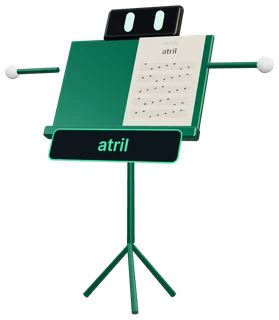
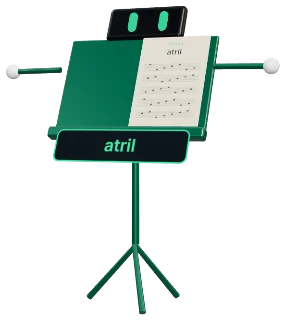
feat(landing): add a portrait bench that renders the family's characters (KJL-TSK-0154)
The family page's portraits come from the film's own three.js modules, so
they must be reproducible. apps/landing/portraits/ is a bench page (not
deployed) that renders each character with a transparent background, trims
it and offers it as <name>-320.webp. Without the film's bloom a glow reads as
white, so the bench paints glowing parts in their flat colour: atril's
portrait is regenerated with it and now shows green eyes.

Refs: KJL-TSK-0154

diff --git a/apps/landing/portraits/index.html b/apps/landing/portraits/index.html
@@ -1,0 +1,107 @@
+<!DOCTYPE html>
+<!--
+  Portrait bench (KJL-TSK-0154): renders the family's characters from the same
+  three.js modules as the film, with a transparent background, as the
+  <name>-320.webp portraits of the family page. Not deployed.
+  Run: python3 -m http.server -d apps/landing 8000, open /portraits/, save each
+  image into public/img/. window.portraits holds them as data URLs too.
+-->
+<html lang="en">
+<head>
+<meta charset="utf-8">
+<title>Karajan family portrait bench</title>
+<link rel="stylesheet" href="https://fonts.googleapis.com/css2?family=Inter:wght@500;600&family=JetBrains+Mono:wght@500&display=swap">
+<style>
+  body { font: 15px Inter, sans-serif; background: #0f1520; color: #e2e8f0; margin: 2rem; }
+  figure { display: inline-block; margin: 0 1.5rem 1.5rem 0; text-align: center; }
+  img { display: block; height: 320px; background: repeating-conic-gradient(#1a2332 0 25%, #151d2a 0 50%) 0 0 / 20px 20px; }
+  a { color: #e8b04b; }
+</style>
+<script type="importmap">{ "imports": { "three": "../public/lib/three.min.js" } }</script>
+</head>
+<body>
+<h1>Family portraits</h1>
+<main id="out"></main>
+<script type="module">
+import * as THREE from 'three';
+import { createStand } from '../public/film/stand.js';
+
+// One entry per portrait: builds the character in its portrait pose.
+const CAST = {
+  atril: () => {
+    const stand = createStand('atril', [['atril', 'skills'], ['TDD', 'skill']]);
+    stand.live(0, 0.4, 0.55);
+    stand.turnTo(1, 0);
+    return stand.group;
+  },
+};
+
+const W = 720, H = 800, HEIGHT = 320, FOV = 24;
+const renderer = new THREE.WebGLRenderer({ antialias: true, alpha: true, preserveDrawingBuffer: true });
+renderer.setSize(W, H, false);
+renderer.setClearColor(0x000000, 0);
+renderer.toneMapping = THREE.ACESFilmicToneMapping;
+const pmrem = new THREE.PMREMGenerator(renderer);
+const environment = pmrem.fromScene(new THREE.RoomEnvironment(), 0.04).texture;
+
+function render(build) {
+  const scene = new THREE.Scene();
+  scene.environment = environment;
+  scene.environmentIntensity = 0.55;
+  const key = new THREE.DirectionalLight(0xffe0b0, 2.4);
+  key.position.set(2.5, 4, 4);
+  const rim = new THREE.DirectionalLight(0x8cb4c9, 2.2);
+  rim.position.set(-3, 3, -2.5);
+  scene.add(key, rim, new THREE.HemisphereLight(0x8cb4c9, 0x05080d, 0.6));
+  const subject = build();
+  subject.rotation.y = -0.4;
+  // Without the film's bloom a glow reads as white: paint it in its flat colour instead.
+  subject.traverse((mesh) => {
+    if (mesh.material?.emissiveIntensity > 1) mesh.material = new THREE.MeshBasicMaterial({ color: mesh.material.emissive, toneMapped: false });
+  });
+  scene.add(subject);
+  const box = new THREE.Box3().setFromObject(subject);
+  const centre = box.getCenter(new THREE.Vector3());
+  const size = box.getSize(new THREE.Vector3());
+  const half = Math.tan((FOV / 2) * Math.PI / 180);
+  const distance = 1.15 * Math.max(size.y / (2 * half), size.x / (2 * half * W / H)) + size.z / 2;
+  const camera = new THREE.PerspectiveCamera(FOV, W / H, 0.1, 50);
+  camera.position.set(centre.x, centre.y + size.y * 0.12, centre.z + distance);
+  camera.lookAt(centre);
+  renderer.render(scene, camera);
+  return trim(renderer.domElement);
+}
+
+// Crops the render to what it drew (plus a margin) and scales it to HEIGHT px.
+function trim(source) {
+  const flat = Object.assign(document.createElement('canvas'), { width: W, height: H });
+  const g = flat.getContext('2d');
+  g.drawImage(source, 0, 0);
+  const { data } = g.getImageData(0, 0, W, H);
+  let left = W, right = 0, top = H, bottom = 0;
+  for (let y = 0; y < H; y++) for (let x = 0; x < W; x++) {
+    if (data[(y * W + x) * 4 + 3] === 0) continue;
+    left = Math.min(left, x); right = Math.max(right, x); top = Math.min(top, y); bottom = Math.max(bottom, y);
+  }
+  const pad = 12;
+  const [sx, sy] = [Math.max(0, left - pad), Math.max(0, top - pad)];
+  const [sw, sh] = [Math.min(W, right + pad) - sx, Math.min(H, bottom + pad) - sy];
+  const out = Object.assign(document.createElement('canvas'), { width: Math.round(sw * HEIGHT / sh), height: HEIGHT });
+  out.getContext('2d').drawImage(flat, sx, sy, sw, sh, 0, 0, out.width, out.height);
+  return out.toDataURL('image/webp', 0.88);
+}
+
+await Promise.all([document.fonts.load('600 64px "Inter"'), document.fonts.load('500 17px "JetBrains Mono"')]);
+const portraits = {};
+for (const [name, build] of Object.entries(CAST)) {
+  portraits[name] = render(build);
+  const figure = document.createElement('figure');
+  const img = Object.assign(document.createElement('img'), { alt: name, src: portraits[name] });
+  const link = Object.assign(document.createElement('a'), { download: `${name}-320.webp`, href: portraits[name], textContent: `${name}-320.webp` });
+  figure.append(img, link);
+  document.getElementById('out').append(figure);
+}
+globalThis.portraits = portraits;
+</script>
+</body>
+</html>

diff --git a/tests/landing/family-page.test.js b/tests/landing/family-page.test.js
@@ -4,6 +4,7 @@ import { describe, expect, it } from "vitest";
 // KJL-TSK-0153: the family page shows each member with its character.
 const publicDir = new URL("../../apps/landing/public/", import.meta.url);
 const read = (path) => readFileSync(new URL(path, publicDir), "utf8");
+const bench = readFileSync(new URL("../../apps/landing/portraits/index.html", import.meta.url), "utf8");
 
 describe.each(["family.html", "es/family.html"])("%s", (page) => {
   const html = read(page);
@@ -14,5 +15,19 @@ describe.each(["family.html", "es/family.html"])("%s", (page) => {
     expect(existsSync(new URL(img[1], publicDir))).toBe(true);
     expect(img[2]).toMatch(/atril/);
     expect(html).not.toContain('<span class="monogram">atril</span>');
+  });
+});
+
+// KJL-TSK-0154: every rendered portrait can be made again from the bench.
+describe("portrait bench", () => {
+  it("renders every portrait the family pages show", () => {
+    const shown = new Set([...read("family.html").matchAll(/src="\/img\/([a-z]+)-320\.webp"/g)].map(([, name]) => name));
+    const cast = [...bench.matchAll(/^ {2}([a-z]+): \(\) =>/gm)].map(([, name]) => name);
+    expect(shown.size).toBeGreaterThan(0);
+    for (const name of shown) expect(cast, name).toContain(name);
+  });
+
+  it("paints the glow flat, as the film's bloom would show it", () => {
+    expect(bench).toContain("new THREE.MeshBasicMaterial({ color: mesh.material.emissive, toneMapped: false })");
   });
 });

diff --git a/apps/landing/public/es/family.html b/apps/landing/public/es/family.html
@@ -136,7 +136,7 @@
       </article>
 
       <article class="fam-row">
-        <div class="fam-media"><img src="/img/atril-320.webp" alt="atril, el robot atril" width="131" height="150" loading="lazy"></div>
+        <div class="fam-media"><img src="/img/atril-320.webp" alt="atril, el robot atril" width="134" height="150" loading="lazy"></div>
         <div class="fam-body">
           <h2>atril <span class="role">el atril</span></h2>
           <p>Skills, comandos y subagentes para cualquier CLI de IA, guardados en un almacén que ningún CLI carga de entrada y que solo se resuelve cuando una tarea los pide: buscar, resolver dentro de un presupuesto, instalar, enrutar. Ahora lee catálogos y marketplaces de plugins, y fija lo que instala en un lockfile que compruebas con <code>atril status</code> y renuevas con <code>atril update</code>. Totalmente aislado: no depende de nada más de la familia. Una contribución de Jorge del Casar.</p>

diff --git a/apps/landing/public/family.html b/apps/landing/public/family.html
@@ -128,7 +128,7 @@
       </article>
 
       <article class="fam-row">
-        <div class="fam-media"><img src="/img/atril-320.webp" alt="atril, the music-stand robot" width="131" height="150" loading="lazy"></div>
+        <div class="fam-media"><img src="/img/atril-320.webp" alt="atril, the music-stand robot" width="134" height="150" loading="lazy"></div>
         <div class="fam-body">
           <h2>atril <span class="role">the music stand</span></h2>
           <p>Skills, commands and subagents for every AI CLI, kept in a store no CLI loads up front and resolved only when a task asks for them: search, resolve within a budget, install, route. It now reads plugin catalogs and marketplaces, and pins what it installs in a lockfile you check with <code>atril status</code> and refresh with <code>atril update</code>. Fully isolated: it depends on nothing else in the family. A contribution by Jorge del Casar.</p>
